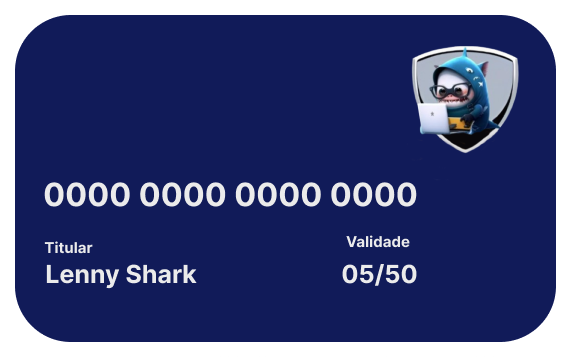
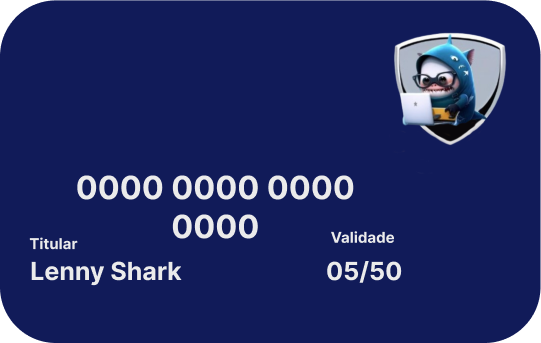
:construction: feat: Criação dos elementos
:sparkles:
-Adição do elemento html form, melhoria na semântica dos agrupamentos baseado na organização dos elementos necessários pra o designer da página.

-Criação da estilização em css

a fazer :exclamation:
-estilização dos campos do formulário em css como está no figma.
-precisa ficar responsivo para telas de notebooks, somente telas  grandes abrem como aparece no designer. Necessário adaptação para os várias resoluções de telas desktop

diff --git a/Babie-Bank/view/registeraddress.html b/Babie-Bank/view/registeraddress.html
@@ -15,44 +15,67 @@
 </head>
 
 <body>
-  <div id="CTA">
-    <h2>
-      <p>Informe i seu endereço</p>
-      <p>para receber seu <span>SharkCard</span></p>
-    </h2>
-    <img src="/Babie-Bank/img/registeraddress-img/SharkCard.png" alt="">
-  </div>
-  <div id="address form">
-    <h1>Registro</h1>
-    <img src="/Babie-Bank/img/registeraddress-img/happyshark.png.png" alt="">
 
-    <form action="">
-      <label for="cep">CEP:</label>
-      <input type="text" id="cep" name="cep">
+  <main>
+    <section id="SharkCard">
 
-      <label for="uf">UF:</label>
-      <input type="text" id="uf" name="uf">
+      <h1>
+        Informe seu endereço <br>
+        para receber seu <br>
+        <span>SharkCard</span>
+      </h1>
+      <img src="/Babie-Bank/img/registeraddress-img/SharkCard.png" alt="">
+    </section>
 
-      <label for="endereco">Endereço:</label>
-      <input type="text" id="endereco" name="endereco">
+    <div id="addressForm">
+      <section id="addressForm-title">
+        <h2>Registro<h2>
+            <img src="/Babie-Bank/img/registeraddress-img/happyshark.png.png" alt="">
+      </section>
 
-      <label for="numero">Número:</label>
-      <input type="text" id="numero" name="numero">
+      <form>
+        <fieldset>
+          <div class="input-wrapper">
+            <label for="cep">CEP:</label>
+            <input type="text" id="cep" name="cep">
+          </div>
 
-      <label for="complemento">Complemento:</label>
-      <input type="text" id="complemento" name="complemento">
+          <div class="input-wrapper">
+            <label for="uf">UF:</label>
+            <input type="text" id="uf" name="uf">
+          </div>
 
-      <label for="bairro">Bairro:</label>
-      <input type="text" id="bairro" name="bairro">
+          <div class="input-wrapper">
+            <label for="endereco">Endereço:</label>
+            <input type="text" id="endereco" name="endereco">
+          </div>
 
-      <label for="cidade">Cidade:</label>
-      <input type="text" id="cidade" name="cidade">
+          <div class="input-wrapper">
+            <label for="numero">Número:</label>
+            <input type="text" id="numero" name="numero">
+          </div>
 
-      <button type="submit">Registrar</button>
-    </form>
-  </div>
+          <div class="input-wrapper">
+            <label for="complemento">Complemento:</label>
+            <input type="text" id="complemento" name="complemento">
+          </div>
 
+          <div class="input-wrapper">
+            <label for="bairro">Bairro:</label>
+            <input type="text" id="bairro" name="bairro">
+          </div>
 
+          <div class="input-wrapper">
+            <label for="cidade">Cidade:</label>
+            <input type="text" id="cidade" name="cidade">
+          </div>
+
+          <button type="submit">Registrar</button>
+          
+        </fieldset>
+      </form>
+    </div>
+  </main>
 
 
   <script src="/Babie-Bank/js/modules/registeraddress.js"></script>

diff --git a/Babie-Bank/css/registeraddress.css b/Babie-Bank/css/registeraddress.css
@@ -1,0 +1,92 @@
+body {
+  background-color: #111B59;
+  margin: 0;
+  width: 1440px;
+  height: 1024px;
+
+  font-family: 'Inter', sans-serif;
+}
+
+main {
+  display: flex;
+  margin: 160px 180px 230px;
+  width: 1096.61px;
+  height: 650px;
+  justify-content: space-between
+}
+
+#SharkCard {
+  width: 540px;
+  height: 650px
+}
+
+#SharkCard img {
+  width: 540px;
+  height: 327px;
+  padding: 0;
+  filter: drop-shadow(0px 0px 15px #FFFFFF);
+}
+
+#addressForm {
+  width: 420px;
+  height: 650px;
+}
+
+#addressForm-title {
+  width: 270.98px;
+  height: 134.38px;
+  display: flex;
+  margin: 0 auto 0;
+  align-items: center;
+}
+
+form {
+  width: 424px;
+  height: 550px;
+  background-color: #EBEBEB;
+  border-radius: 26px;
+  box-shadow: 0px 4px 18px 6px rgba(0, 0, 0, 0.25);
+  margin-top: -37px;
+  position: relative;
+
+}
+
+fieldset {
+  border-style: none;
+  width: 323.08px;
+  height: 427.62px;
+  padding: 60px 40px;
+}
+
+.input-wrapper {
+  display: inline-block;
+  font-weight: 400;
+  font-size: 15px;
+  line-height: 18px;
+  color: #111B59;
+
+}
+
+.input-wrapper label {
+  background: #D9D9D9;
+  border-radius: 26px;
+}
+
+h1 {
+  font-size: 48px;
+  line-height: 58px;
+  color: #EBEBEB;
+  margin-top: 100px;
+  margin-left: 15px;
+}
+
+h1 span {
+  color: #F95E1D;
+}
+
+h2 {
+  font-size: 35px;
+  display: inline-block;
+
+  color: #EBEBEB;
+}
